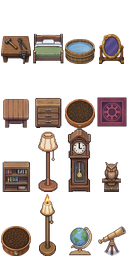
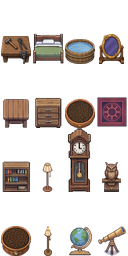
Fit floor lamps to one cell and render basins beneath players

Changed region(s): [[0.2812, 0.5, 0.4688, 1.0]]

diff --git a/index.html b/index.html
@@ -98,7 +98,7 @@
        the preload only removes its later network wait. cachebust.js owns both
        versions, just as it owns the matching script and APP_SRC URLs. -->
   <link rel="preload" as="script" fetchpriority="high" href="vendor/phaser.js?v=3fa1b12c" />
-  <link rel="preload" as="script" fetchpriority="high" href="src/app.js?v=401815c5" />
+  <link rel="preload" as="script" fetchpriority="high" href="src/app.js?v=6ba36c6a" />
   <script>
     // ── Boot profiler ────────────────────────────────────────────────────
     // FIRST thing on the page, so it is recording before a single byte of the
@@ -3023,7 +3023,7 @@
   <script src="src/quarry_layout.js?v=6b945d34"></script>
   <script src="src/zone_dressing.js?v=eed6eea0"></script>
   <script src="src/reef_layout.js?v=5ac55392"></script>
-  <script src="src/sprite_layout.js?v=f96d4366"></script>
+  <script src="src/sprite_layout.js?v=4161af21"></script>
   <script src="src/placed_floor.js?v=1230ad57"></script>
   <script src="src/campfires.js?v=de1dbe54"></script>
   <script src="src/home.js?v=ddcaa455"></script>
@@ -3055,7 +3055,7 @@
   <script src="src/castle_styles.js?v=8a4d031c"></script>
   <script src="src/textures.js?v=d1bc2162"></script>
   <script src="src/save.js?v=5d02b05e"></script>
-  <script src="src/items.js?v=06050adf"></script>
+  <script src="src/items.js?v=2f2939b2"></script>
   <script src="src/inventory.js?v=f8d057a5"></script>
   <script src="src/energy.js?v=10dc51a3"></script>
   <script src="src/conditions.js?v=ebae5f35"></script>
@@ -3106,7 +3106,7 @@
   <script src="src/lighting_gpu.js?v=5dd349a5"></script>
   <script src="src/lighting.js?v=65c5a902"></script>
   <script src="src/safety.js?v=4da84751"></script>
-  <script src="src/render.js?v=7293d106"></script>
+  <script src="src/render.js?v=b26db49e"></script>
   <script src="src/gas_render.js?v=968b9603"></script>
   <script src="src/enemy_protocol.js?v=d431fb24"></script>
   <script src="src/multiplayer.js?v=f939dd1a"></script>
@@ -3213,7 +3213,7 @@
     // tracking joins that same watch — one watchPosition per page, one prompt.
     (function () {
       if (window.__bootRecovery.failed) return;
-      const APP_SRC = 'src/app.js?v=401815c5';
+      const APP_SRC = 'src/app.js?v=6ba36c6a';
       // How long the gate waits for that first fix before giving up and
       // booting at the default origin. A cold GPS start can take far longer
       // than this indoors, so app.js keeps its capture-then-reload path as a

diff --git a/test/node/sprites.test.js b/test/node/sprites.test.js
@@ -895,7 +895,7 @@ test('furniture art: every frame seats in its cell, including mirrored asymmetri
       assert.eq(p.texKey, 'furniture');
       assert.eq(p.frameVal, metadata.frame);
       const layers = { flat: WorldLayers.GROUND_DECAL, mid: WorldLayers.STEP_OVER_PROP,
-        basin: WorldLayers.STANDING_PROP };
+        basin: WorldLayers.GROUND_DECAL };
       assert.eq(p.layer, layers[metadata.height]);
       const b = SpriteLayout.ART_BOUNDS[`furniture:${p.frameVal}`];
       const mirrored = metadata.flip && flip;
@@ -903,10 +903,16 @@ test('furniture art: every frame seats in its cell, including mirrored asymmetri
       const maxX = mirrored ? b.fw - b.minX : b.maxX;
       assert.inRange(Math.abs(p.dxPx + ((minX + maxX) / 2 - b.fw / 2) * p.scl), 0, 1e-8);
       assert.inRange(p.dyPx + (b.maxY - b.fh / 2) * p.scl, 0, 16);
-      if (['lamp_floor', 'clock_grandfather', 'candelabra_floor'].includes(item.id)) {
+      if (item.id === 'clock_grandfather') {
         assert.eq(b.fh, 64, 'upright art keeps the tall world frame');
         assert.gt((b.maxY - b.minY) * p.scl, 32, 'upright rises above its single floor cell');
         assert.eq(p.dyPx + (b.maxY - b.fh / 2) * p.scl, 15, 'tall feet sit above the cell edge');
+      }
+      if (['lamp_floor', 'candelabra_floor'].includes(item.id)) {
+        assert.eq(Math.max(b.maxX - b.minX, b.maxY - b.minY), 30, 'lamp longest side is 30px');
+        assert.gte(b.minY, b.fh - 32, 'lamp fits the bottom 32×32 frame');
+        assert.eq(b.maxY, b.fh, 'lamp is bottom-seated');
+        assert.lte((b.maxY - b.minY) * p.scl, 26, 'lamp reads about player height');
       }
       let actualFlip;
       p.spec.after({setFlipX(value) { actualFlip=value; }}, o);

diff --git a/test/node/furniture_placement.test.js b/test/node/furniture_placement.test.js
@@ -7,22 +7,23 @@
       assert.includes(['flat', 'mid', 'basin'], spec.height, id);
     }
   });
-  test('furniture: basins are upright props without obstacle lift', () => {
+  test('furniture: basins draw below the player without obstacle lift', () => {
     const tub = { kind: 'furniture', itemId: 'washtub', x: 2.5, y: 2.5 };
     assert.eq(furnitureSpec(tub).height, 'basin');
     assert.eq(ObstacleStep.profile(tub), null);
     assert.eq(ObstacleStep.sample(tub.x, tub.y, [tub], 5).liftPx, 0);
     const { resolveAppearance } = Render.objectAppearance({ textures: { exists: () => true }, save: {} }, new Map());
     const appearance = resolveAppearance(tub);
-    assert.eq(appearance.layer, WorldLayers.STANDING_PROP);
+    assert.eq(appearance.layer, WorldLayers.GROUND_DECAL);
     const basin = { layer: appearance.layer, groundY: Render.objectGroundOffsetPx(appearance), rank: 1 };
     const player = { groundY: 0, rank: 3 };
     const pieces = [basin, player];
-    Render.sortWorldDepth(pieces);
-    assert.eq(pieces[1], basin, 'rim sorts in front of the player at the cell centre');
-    player.groundY = basin.groundY + 1;
-    Render.sortWorldDepth(pieces);
-    assert.eq(pieces[1], player, 'walking past the feet brings the player in front');
+    for (const groundY of [0, basin.groundY - 1, basin.groundY, basin.groundY + 1]) {
+      player.groundY = groundY;
+      Render.sortWorldDepth(pieces);
+      assert.eq(pieces[0], basin, 'basin remains below the player at the centre and either edge');
+      assert.eq(pieces[1], player, 'submersion cropping alone hides the lower body');
+    }
   });
   function fixture(depth = 0) {
     const scene = Object.assign(makeScene(), {

diff --git a/src/items.js b/src/items.js
@@ -509,11 +509,11 @@ const FURNITURE = {
   planter_clay: { frame: 6, tierSheetFrame: null, flip: true, height: "mid", ability: "plant", light: null, luxury: null },
   rug_burgundy: { frame: 7, tierSheetFrame: null, flip: false, height: "flat", ability: null, light: null, luxury: null },
   bookshelf_frontier: { frame: 8, tierSheetFrame: null, flip: true, height: "mid", ability: null, light: null, luxury: null },
-  lamp_floor: { frame: 9, tierSheetFrame: null, flip: true, height: "mid", ability: null, light: "furniture_lamp", lightFrameY: 10, luxury: null },
+  lamp_floor: { frame: 9, tierSheetFrame: null, flip: true, height: "mid", ability: null, light: "furniture_lamp", lightFrameY: 37, luxury: null },
   clock_grandfather: { frame: 10, tierSheetFrame: null, flip: false, height: "mid", ability: null, light: null, luxury: null },
   statue_pedestal: { frame: 11, tierSheetFrame: null, flip: true, height: "mid", ability: null, light: null, luxury: null },
   planter_copper: { frame: 12, tierSheetFrame: null, flip: true, height: "mid", ability: "plant", light: null, luxury: null },
-  candelabra_floor: { frame: 13, tierSheetFrame: null, flip: true, height: "mid", ability: null, light: "furniture_candle", lightFrameY: 7, luxury: null },
+  candelabra_floor: { frame: 13, tierSheetFrame: null, flip: true, height: "mid", ability: null, light: "furniture_candle", lightFrameY: 36, luxury: null },
   globe_brass: { frame: 14, tierSheetFrame: null, flip: false, height: "mid", ability: null, light: null, luxury: null },
   telescope_brass: { frame: 15, tierSheetFrame: null, flip: true, height: "mid", ability: null, light: null, luxury: null },
 };

diff --git a/sw.js b/sw.js
@@ -1,7 +1,7 @@
 // Content-addressed resources survive deployments. HTML stays network-first;
 // tiles retain their independent offline cache. Keep two shell generations so
 // old tabs can still request their exact script URLs after a worker update.
-const SHELL_VERSION = 'shell-03374c08';
+const SHELL_VERSION = 'shell-317f3b77';
 
 const RESOURCE_CACHE = 'terracart-resources-v1';
 const RESOURCE_MANIFEST = './__terracart_resource_manifest__';
@@ -269,7 +269,7 @@ const ASSET_HASHES = {
   "assets/Icons/RPG icons/Weapons and Armor/7. Frost/Staff.png": "b2484a06",
   "assets/Icons/RPG icons/Weapons and Armor/7. Frost/Sword.png": "232136a0",
   "assets/Icons/coin.png": "4c9e7ebc",
-  "assets/Icons/dom-atlas.png": "0ac52ca3",
+  "assets/Icons/dom-atlas.png": "53a0cb22",
   "assets/NPC/Ayo_human_idle.png": "39297eca",
   "assets/NPC/Ayo_human_walk.png": "ba53a101",
   "assets/NPC/Citizen_woman01_idle.png": "8ab400ca",
@@ -466,8 +466,8 @@ const ASSET_HASHES = {
   "assets/Objects/Crops.png": "b151e77a",
   "assets/Objects/DailyVisits/potofgold.png": "68ee01c6",
   "assets/Objects/DailyVisits/wagon.png": "ab9c7c68",
-  "assets/Objects/Furniture/furniture-32.png": "2ed8f44c",
-  "assets/Objects/Furniture/furniture-icons-16.png": "806b8333",
+  "assets/Objects/Furniture/furniture-32.png": "f9a805fc",
+  "assets/Objects/Furniture/furniture-icons-16.png": "31a4acc4",
   "assets/Objects/Furniture/source/concept_mirror.png": "8df7f932",
   "assets/Objects/Furniture/source/concept_planter_clay_v2.png": "b5dd0e2e",
   "assets/Objects/Furniture/source/concept_planter_copper_v2.png": "bee4d05f",

diff --git a/tools/sprite_audit.js b/tools/sprite_audit.js
@@ -291,9 +291,11 @@ const SHEETS = {
 //    anchor it measures from, so the ORIGIN CANCELS. SEAT_ANCHOR stands in for all.
 const t = (species, size) => treeScale({ species, size });
 const SEAT_ANCHOR = [0.5, 0.5];
+const furnitureManifest = JSON.parse(fs.readFileSync(path.join(ROOT, 'assets/Objects/Furniture/manifest.json'), 'utf8'));
 const SCENARIOS = [
   ...Object.entries(itemsCtx.FURNITURE).flatMap(([id, row]) => [false, ...(row.flip ? [true] : [])].map(flipX => ({
     name: `${id}${flipX ? ' flipped' : ''}`, key: 'furniture', frameIdx: row.frame, scale: itemsCtx.FURNITURE_SCALE, flipX,
+    frameSize: furnitureManifest.items.find(entry => entry.itemId === id).frameSize,
   }))),
   ...['gas_mushroom_small', 'gas_mushroom_large'].map(key => ({
     name: key.replaceAll('_', ' '), key, frameIdx: 0, scale: itemsCtx.WILDPLANT_CONTEXT_ART[key].scale,
@@ -364,6 +366,13 @@ function evaluate(s) {
   const table = ART_BOUNDS[lookup];
 
   const violations = [];
+  // Furniture frames are bottom-seated in uniform sheet slots. The clock alone
+  // may use the upper half; lamps must stay inside their single-cell frame.
+  if (s.frameSize) {
+    const [width, height] = s.frameSize, left = (fresh.fw - width) / 2;
+    if (fresh.minX < left || fresh.maxX > left + width || fresh.minY < fresh.fh - height)
+      violations.push(`art exceeds its ${width}×${height} furniture frame`);
+  }
   // Drift guard: the seated table must match the real art.
   if (!table) {
     violations.push(`ART_BOUNDS missing "${lookup}" (run --emit-bounds)`);

diff --git a/test/node/run.js b/test/node/run.js
@@ -1503,9 +1503,14 @@ ctx.__tests.push({ name: 'furniture manifest: catalog frames and world geometry 
   ctx.assert.eq(new Set(manifest.items.map(row => row.itemId)).size, manifest.items.length);
   ctx.assert.eq(new Set(manifest.items.map(row => row.frame)).size, manifest.items.length);
   ctx.assert.eq(ASSETS.furniture.frameWidth, manifest.worldCell);
-  ctx.assert.eq(ASSETS.furniture.frameHeight, manifest.worldFrameHeight);
+  ctx.assert.eq(ASSETS.furniture.frameHeight, Math.max(...manifest.items.map(row => row.frameSize[1])));
   for (const row of manifest.items) {
     ctx.assert.eq(ctx.furnitureFrame(row.itemId), row.frame, row.itemId);
+    ctx.assert.eq(row.frameSize[0], 32, row.itemId);
+    ctx.assert.eq(row.frameSize[1], row.itemId === 'clock_grandfather' ? 64 : 32, row.itemId);
+    if (['lamp_floor', 'candelabra_floor'].includes(row.itemId)) {
+      ctx.assert.eq(JSON.stringify(row.fit), '[30,30]', row.itemId);
+    }
     if (row.mode === 'concept') ctx.assert.truthy(fs.existsSync(path.join(ROOT, row.source)));
   }
   for (const id of ['washtub', 'statue_pedestal', 'candelabra_floor']) {

diff --git a/src/sprite_layout.js b/src/sprite_layout.js
@@ -47,11 +47,11 @@
     'furniture:6': { fw: 32, fh: 64, minX: 1, minY: 35, maxX: 31, maxY: 64 },
     'furniture:7': { fw: 32, fh: 64, minX: 1, minY: 33, maxX: 31, maxY: 63 },
     'furniture:8': { fw: 32, fh: 64, minX: 2, minY: 33, maxX: 30, maxY: 64 },
-    'furniture:9': { fw: 32, fh: 64, minX: 6, minY: 3, maxX: 26, maxY: 64 },
+    'furniture:9': { fw: 32, fh: 64, minX: 10, minY: 34, maxX: 21, maxY: 64 },
     'furniture:10': { fw: 32, fh: 64, minX: 4, minY: 0, maxX: 27, maxY: 64 },
     'furniture:11': { fw: 32, fh: 64, minX: 6, minY: 34, maxX: 25, maxY: 64 },
     'furniture:12': { fw: 32, fh: 64, minX: 1, minY: 34, maxX: 31, maxY: 64 },
-    'furniture:13': { fw: 32, fh: 64, minX: 7, minY: 2, maxX: 24, maxY: 64 },
+    'furniture:13': { fw: 32, fh: 64, minX: 12, minY: 34, maxX: 20, maxY: 64 },
     'furniture:14': { fw: 32, fh: 64, minX: 5, minY: 34, maxX: 28, maxY: 64 },
     'furniture:15': { fw: 32, fh: 64, minX: 2, minY: 34, maxX: 30, maxY: 64 },
     'clay_pot_smashed:3': { fw: 24, fh: 24, minX: 1, minY: 1, maxX: 22, maxY: 23 },

diff --git a/test/node/lighting.test.js b/test/node/lighting.test.js
@@ -448,7 +448,8 @@ test('lighting: furniture emits indoors, across the sprite cull, and stops after
       Lighting.beginFrame(s); offer(lamp, HALF_M + 1, 0);
       assert.eq(s._lights.length, 1, 'off-screen art still lights the visible room edge');
       const light = s._lights[0];
-      assert.eq(light.kind, kind); assert.lt(light.dyPx, -20, 'light is raised into the tall fixture');
+      assert.eq(light.kind, kind);
+      assert.inRange(light.dyPx, -13, -7, 'glow sits near the top of the 1×1 lamp');
       assert.eq(Lighting.liftPx(s, light).y, light.dyPx, 'existing lift mechanism places the glow');
       assert.falsy(Lighting.consider(s, lamp, HALF_M + radius * s.cellM + 1, 0, HALF_M), 'own radius culls distant fixtures');
       assert.eq(Lighting.sourceKind(s, { ...lamp, x: 7.5, houseKey: 'furniture-home' }), null, 'stale Home association cannot light outdoors');

diff --git a/src/render.js b/src/render.js
@@ -6262,7 +6262,7 @@ const { RENDER_SPEC, resolveAppearance, _houseRole, _houseKey, _houseScale, _hou
       // The 16px crop starts near the north edge and roots in the pot's soil.
       planterCrop: { scale: 1, originY: 0, dyPx: () => -CELL_PX * 0.5 + 3 },
       origin: [0.5, 0.5], scale: FURNITURE_SCALE, seat: true,
-      layer: o => furnitureSpec(o)?.height === 'flat' ? WorldLayers.GROUND_DECAL : null,
+      layer: o => ['flat', 'basin'].includes(furnitureSpec(o)?.height) ? WorldLayers.GROUND_DECAL : null,
       flipX: o => !!(furnitureSpec(o)?.flip && o.flip),
       after: (sprite, o) => sprite.setFlipX(!!(furnitureSpec(o)?.flip && o.flip)),
     },

diff --git a/src/app.js b/src/app.js
@@ -1666,7 +1666,7 @@ const ICON_SHEETS = {
 // BEGIN GENERATED DOM ICON ATLAS
 // Regenerate with node tools/build-dom-icon-atlas.cjs; original sheets remain the art source.
 const DOM_ICON_ATLAS = {
-  "url": "assets/Icons/dom-atlas.png?v=0ac52ca3",
+  "url": "assets/Icons/dom-atlas.png?v=53a0cb22",
   "width": 1024,
   "height": 720,
   "rects": {

diff --git a/tools/build_furniture_sheets.py b/tools/build_furniture_sheets.py
@@ -15,32 +15,39 @@ DEST = ROOT / 'assets/Objects/Furniture'
 
 def build():
     manifest = json.loads((DEST / 'manifest.json').read_text())
-    cols, cell, height, icon_cell = (manifest[key] for key in
-                                    ('columns', 'worldCell', 'worldFrameHeight', 'iconCell'))
+    cols, cell, icon_cell = (manifest[key] for key in
+                             ('columns', 'worldCell', 'iconCell'))
+    # Uniform slots keep Phaser frame indices and both sheets aligned. Only the
+    # clock needs a tall slot; all other logical frames sit in its bottom half.
+    height = max(entry['frameSize'][1] for entry in manifest['items'])
     rows = (len(manifest['items']) + cols - 1) // cols
     world = Image.new('RGBA', (cols * cell, rows * height))
     icons = Image.new('RGBA', (cols * icon_cell, rows * icon_cell))
     for entry in manifest['items']:
         source = Image.open(ROOT / entry['source']).convert('RGBA')
-        if entry['mode'] == 'concept':
-            bounds = source.getchannel('A').getbbox()
-            if bounds is None:
-                raise ValueError(f"Empty concept: {entry['itemId']}")
-            art = source.crop(bounds)
-            fit_w, fit_h = entry.get('fit', [cell - 2, cell - 2])
-            factor = min(fit_w / art.width, fit_h / art.height)
-        else:
+        frame_w, frame_h = entry['frameSize']
+        art = source
+        if entry['box']:
             x, y, w, h = entry['box']
             art = source.crop((x, y, x + w, y + h))
+        if entry['mode'] == 'concept' or 'fit' in entry:
+            bounds = art.getchannel('A').getbbox()
+            if bounds is None:
+                raise ValueError(f"Empty furniture source: {entry['itemId']}")
+            art = art.crop(bounds)
+            fit_w, fit_h = entry.get('fit', [frame_w - 2, frame_h - 2])
+            factor = min(fit_w / art.width, fit_h / art.height)
+        else:
             factor = cell / 48
         size = tuple(max(1, round(side * factor)) for side in art.size)
         art = art.resize(size, Image.Resampling.LANCZOS)
-        if art.width > cell or art.height > height:
+        if frame_w > cell or art.width > frame_w or art.height > frame_h:
             raise ValueError(f"Art exceeds world frame: {entry['itemId']}")
-        frame = Image.new('RGBA', (cell, height))
-        frame.alpha_composite(art, ((cell - art.width) // 2, height - art.height))
+        frame = Image.new('RGBA', (frame_w, frame_h))
+        frame.alpha_composite(art, ((frame_w - art.width) // 2, frame_h - art.height))
         col, row = entry['frame'] % cols, entry['frame'] // cols
-        world.alpha_composite(frame, (col * cell, row * height))
+        world.alpha_composite(frame, (col * cell + (cell - frame_w) // 2,
+                                      row * height + height - frame_h))
         # Fit the whole piece, excluding the shared frame's empty upper half.
         # Uprights keep their proportions instead of losing their tops or feet.
         icon_factor = min(icon_cell / art.width, icon_cell / art.height)
